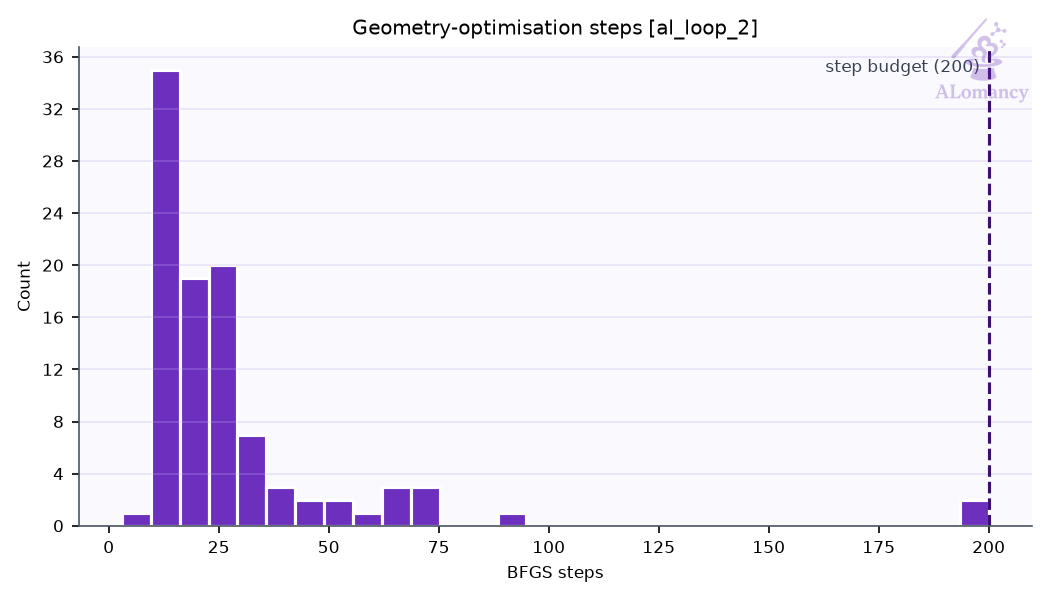
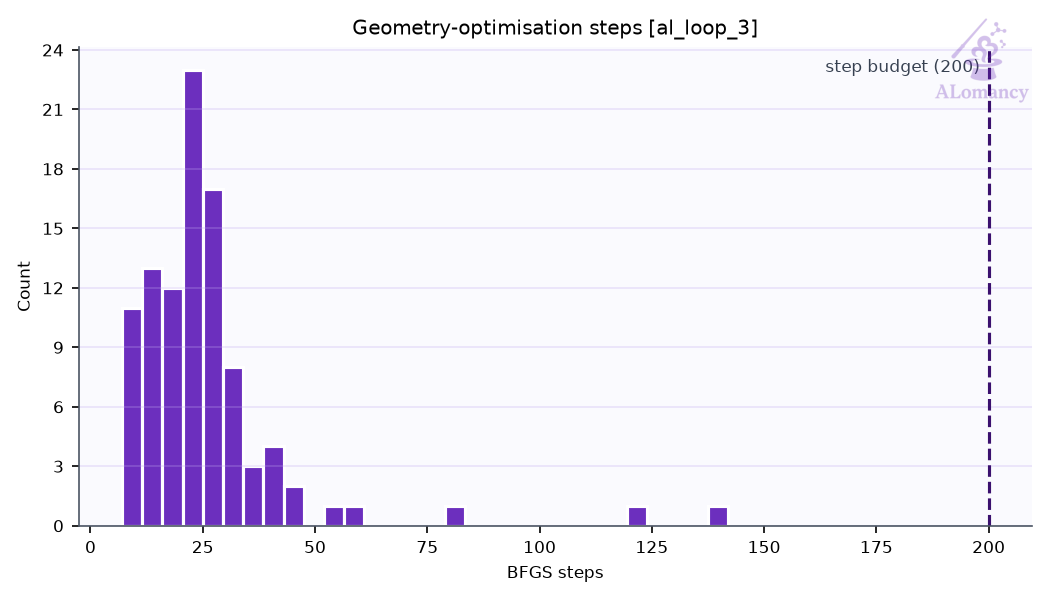
update good_c, yun_an

diff --git a/alomancy/good_c/report/report.md b/alomancy/good_c/report/report.md
@@ -1,25 +1,26 @@
-# ALomancy report: al_loop_2
+# ALomancy report: al_loop_3
 
-Workflow `committee_uncertainty` · trainer `mace` · generator `md` · evaluator `qe` · generated 2026-11-06T10:08:49
+Workflow `committee_uncertainty` · trainer `mace` · generator `md` · evaluator `qe` · generated 2026-11-07T14:55:16
 
-**Status:** 💡 1 info · 4 warning(s) logged
+**Status:** 💡 2 infos · 5 warning(s) logged
 
 ## Headline
 
-| | loop 1 | loop 2 | change |
+| | loop 2 | loop 3 | change |
 |---|---:|---:|---:|
-| Best model test force MAE (eV/Å) | 0.219 | 0.206 | -6% |
-| Best model test energy MAE (meV/atom) | 31.5 | 18.1 | -43% |
-| Training structures | 4.19e+03 | 4.45e+03 | +6% |
-| Test structures | 431 | 460 | +7% |
-| New structures this loop | 292 | 298 | +2% |
-| Warnings / errors logged | 8 | 4 | -50% |
+| Best model test force MAE (eV/Å) | 0.206 | 0.205 | -1% |
+| Best model test energy MAE (meV/atom) | 18.1 | 21.9 | +21% |
+| Training structures | 4.45e+03 | 4.71e+03 | +6% |
+| Test structures | 460 | 490 | +7% |
+| New structures this loop | 298 | 295 | -1% |
+| Warnings / errors logged | 4 | 5 | +25% |
 
 Best model: fit_2 of 3 (chosen on the `valid` split).
 
 ## Issues & suggestions
 
-- 💡 **overfitting**: The best model's test force MAE (0.206 eV/Å) is 2.2x its training MAE (0.0926 eV/Å). The test set covers configurations training doesn't: keep adding data, or raise general.dataset_kwargs.valid_fraction to select models on held-out data.
+- 💡 **queue_dominated**: training_plots spent 82% of its time (8.9 h) queued. Raise max_num_of_concurrent_jobs in the HPC profile or use a less busy partition.
+- 💡 **overfitting**: The best model's test force MAE (0.205 eV/Å) is 2.3x its training MAE (0.0895 eV/Å). The test set covers configurations training doesn't: keep adding data, or raise general.dataset_kwargs.valid_fraction to select models on held-out data.
 
 ## Trends
 
@@ -28,6 +29,7 @@ Best model: fit_2 of 3 (chosen on the `valid` split).
 | 0 | 0.23 | 3958 | 115 | 100/100 | 100% | 0 | 1 |
 | 1 | 0.219 | 4186 | 292 | 96/100 | 99% | 0 | 8 |
 | 2 | 0.206 | 4449 | 298 | 99/100 | 98% | 0 | 4 |
+| 3 | 0.205 | 4708 | 295 | 98/100 | 100% | 0 | 5 |
 
 ![Best-model MAE per loop](plots/training_al_loop_mae_plot.png)
 
@@ -43,7 +45,7 @@ No predictions stored for this loop's best model.
 |---|---:|---:|---:|---:|
 | CNa_dataset | 3538 | 392 | 662 | 4592 |
 | IsolatedAtom | 1 | 0 | 0 | 1 |
-| high_sd | 591 | 64 | 50 | 705 |
+| high_sd | 850 | 94 | 56 | 1000 |
 | init_MP | 7 | 1 | 0 | 8 |
 | init_amorphous | 26 | 3 | 0 | 29 |
 | init_dimer | 99 | 0 | 0 | 99 |
@@ -52,10 +54,10 @@ No predictions stored for this loop's best model.
 | init_trimer | 50 | 0 | 0 | 50 |
 | on_hull | 1 | 0 | 0 | 1 |
 | on_hull_expansion | 11 | 0 | 9 | 20 |
-| **all** | **4449** | **460** | **1138** | **6047** |
+| **all** | **4708** | **490** | **1144** | **6342** |
 
-- Redundancy removal: 0 structure(s) flagged in total, 0 of this loop's 298 new.
-- Quality filters: high_force: 1129, formation_energy: 21.
+- Redundancy removal: 0 structure(s) flagged in total, 0 of this loop's 295 new.
+- Quality filters: high_force: 1135, formation_energy: 21.
 
 ![Training set composition](plots/training_set_composition.png)
 
@@ -63,21 +65,21 @@ No predictions stored for this loop's best model.
 
 Redundancy removal flags near-duplicate training structures, so the model isn't trained on many copies of the same geometry. Each structure is described by `char_vec_128`: all of its interatomic distances, sorted and resampled to 128 values (`global_descriptor/atomic_distance_descriptor.make_char_vec`). Two structures count as duplicates when the Euclidean distance between their descriptors is below a tolerance: in database order, each structure still in the training set is kept unless it is within the tolerance of one already kept. The plot sweeps that tolerance and counts how many structures are kept at each value. **We are looking for plateaus** (shaded): ranges where the count doesn't change, so the result doesn't depend on the exact tolerance. The orange line (right axis) is the number of structures removed between consecutive tolerance steps, the gradient of the count: zero on a plateau. The start of the lowest plateau at least `general.redundancy_kwargs.min_plateau_width` of the swept range wide is used (dashed line). Nothing is flagged when no plateau qualifies, or when it would flag more than `max_flagged_fraction` of the structures; `general.redundancy_kwargs.tolerance` sets the tolerance directly.
 
-- This loop: 4,326 structures probed; the lowest plateau would flag more than 50% of them, so nothing was flagged.
+- This loop: 4,499 structures probed; the lowest plateau would flag more than 50% of them, so nothing was flagged.
 
 ![Redundancy tolerance probe](plots/redundancy_tolerance_probe.png)
 
 ## DFT
 
-- Structures: 99 returned of 100 submitted (99 relaxed, 0 single point).
-- Geometry optimisation: 97/99 reached the force ceiling (0.05 eV/Å); steps mean 29.1, median 21, max 200 of 200 allowed.
-- Average DFT time per relaxation: 85.8 min (median 34.8, max 616.1; 99 structures).
-- Largest per-atom force after DFT: median 0.04, max 0.26 eV/Å.
-- DFT phase wall-clock: 34.9 h (mean queue time 240 min).
+- Structures: 98 returned of 100 submitted (98 relaxed, 0 single point).
+- Geometry optimisation: 98/98 reached the force ceiling (0.05 eV/Å); steps mean 25.9, median 23, max 142 of 200 allowed.
+- Average DFT time per relaxation: 98.4 min (median 45.2, max 694.4; 98 structures).
+- Largest per-atom force after DFT: median 0.04, max 0.05 eV/Å.
+- DFT phase wall-clock: 11.8 h (mean queue time 5 min).
 
 ## MLIP training: mace
 
-- Best fit (fit_2) trained for 299 epochs, stage two from epoch 240; weights kept from epoch 249.
+- Best fit (fit_2) trained for 299 epochs, stage two from epoch 240; weights kept from epoch 256.
 
 ![Best model training curve](plots/best_model_training_curve.png)
 
@@ -99,7 +101,7 @@ Redundancy removal flags near-duplicate training structures, so the model isn't 
 
 ## Selection: committee uncertainty
 
-- 829 candidates scored; 100 selected (max force std dev ≥ 0.27 eV/Å).
+- 819 candidates scored; 100 selected (max force std dev ≥ 0.303 eV/Å).
 
 ![Committee force std dev](plots/committee_force_std_dev.png)
 
@@ -109,7 +111,7 @@ Redundancy removal flags near-duplicate training structures, so the model isn't 
 |---|---|---:|
 | `blown_up_excluded` |  | 1 |
 | `dft_summary` | DFT batch summary | 1 |
-| `job_failed` | remote job failed | 1 |
+| `job_failed` | remote job failed | 2 |
 | `jobs_started` | remote jobs started | 4 |
 | `md_summary` | MD summary | 1 |
 | `md_volume_expanded` |  | 1 |
